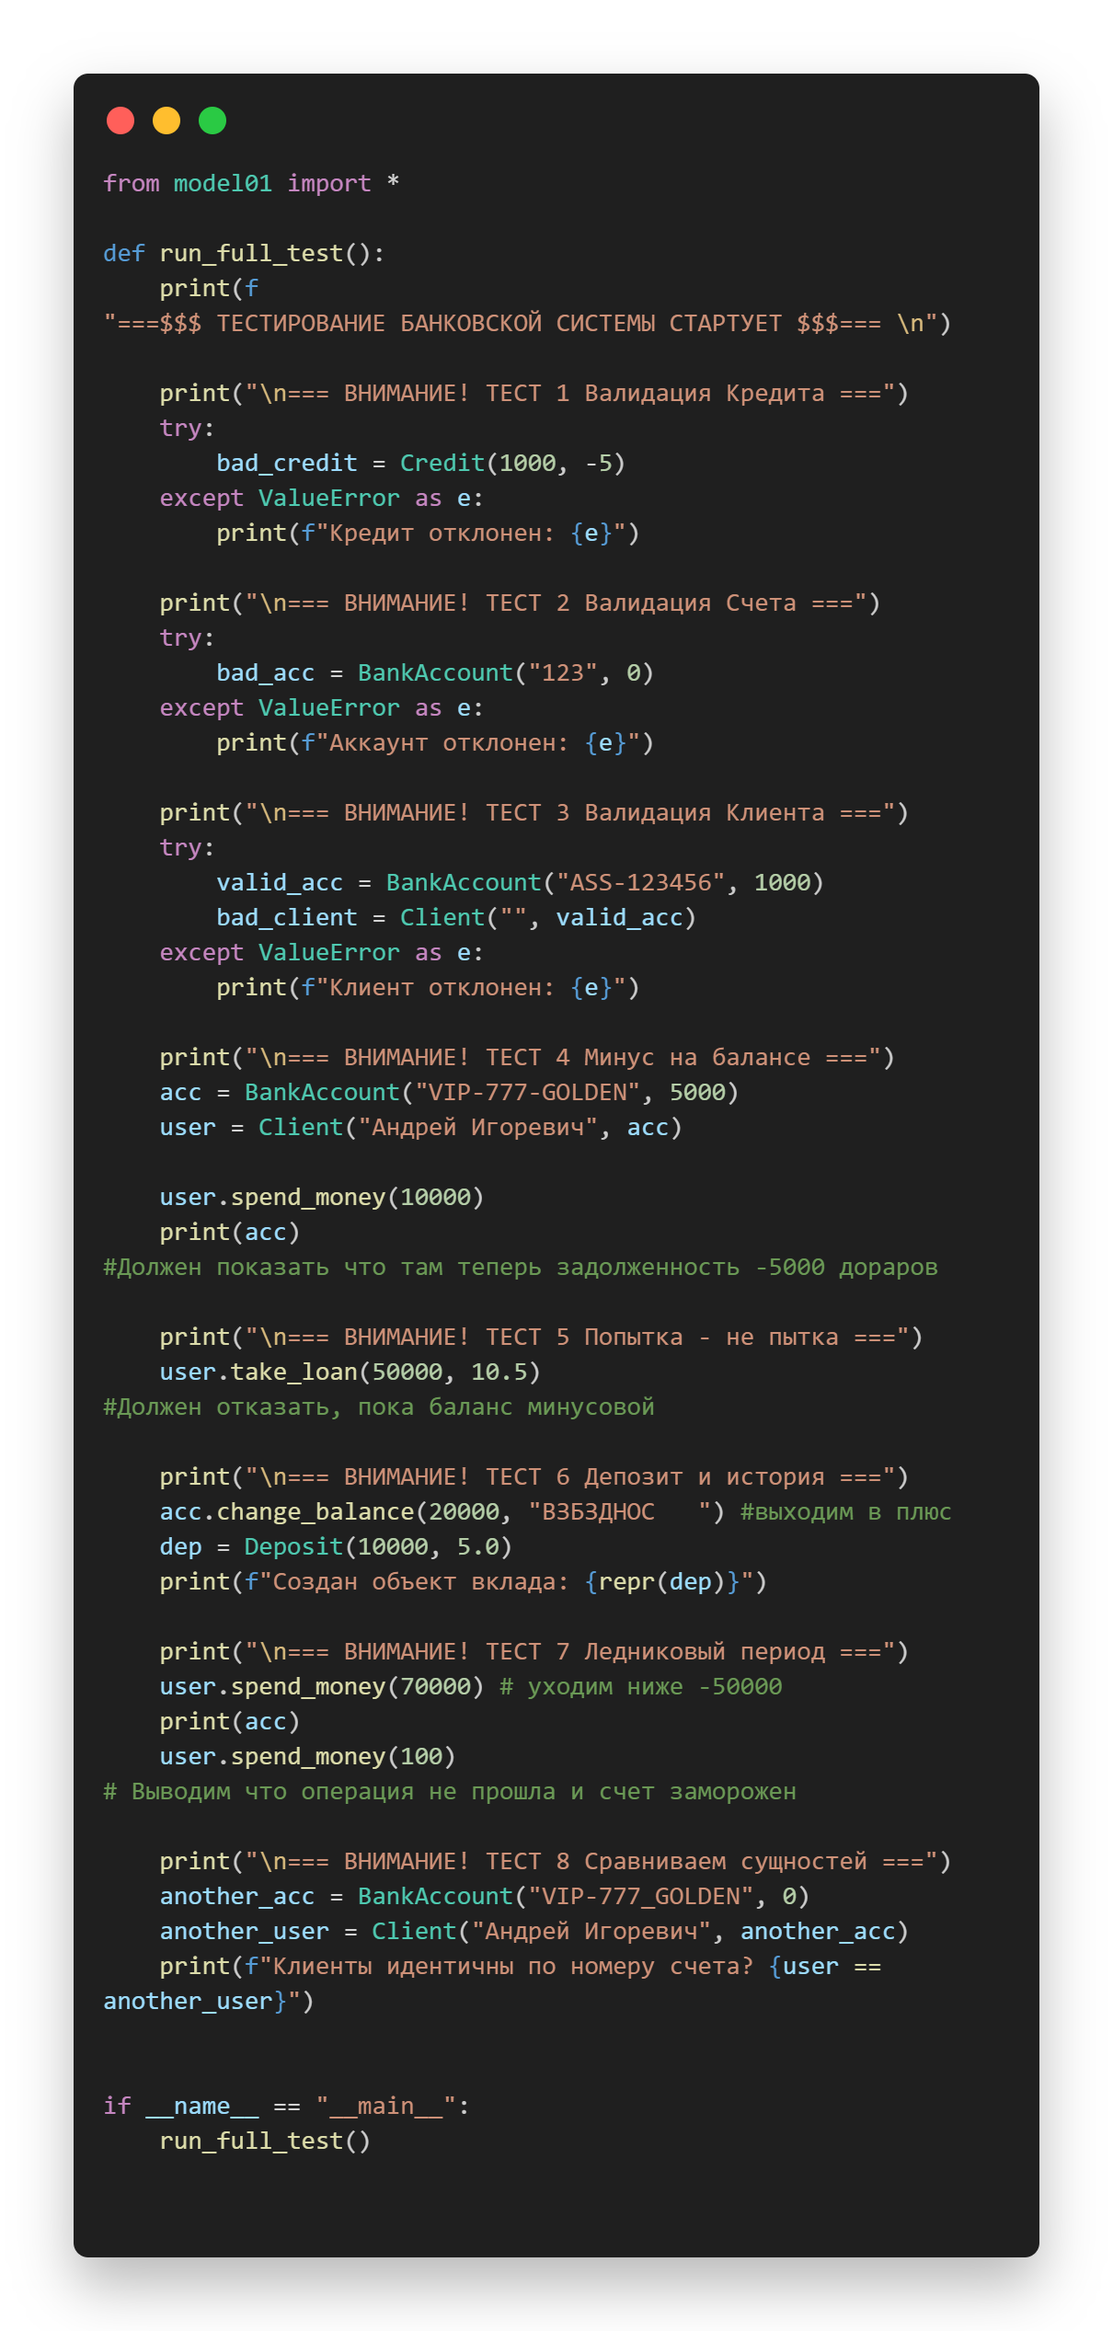
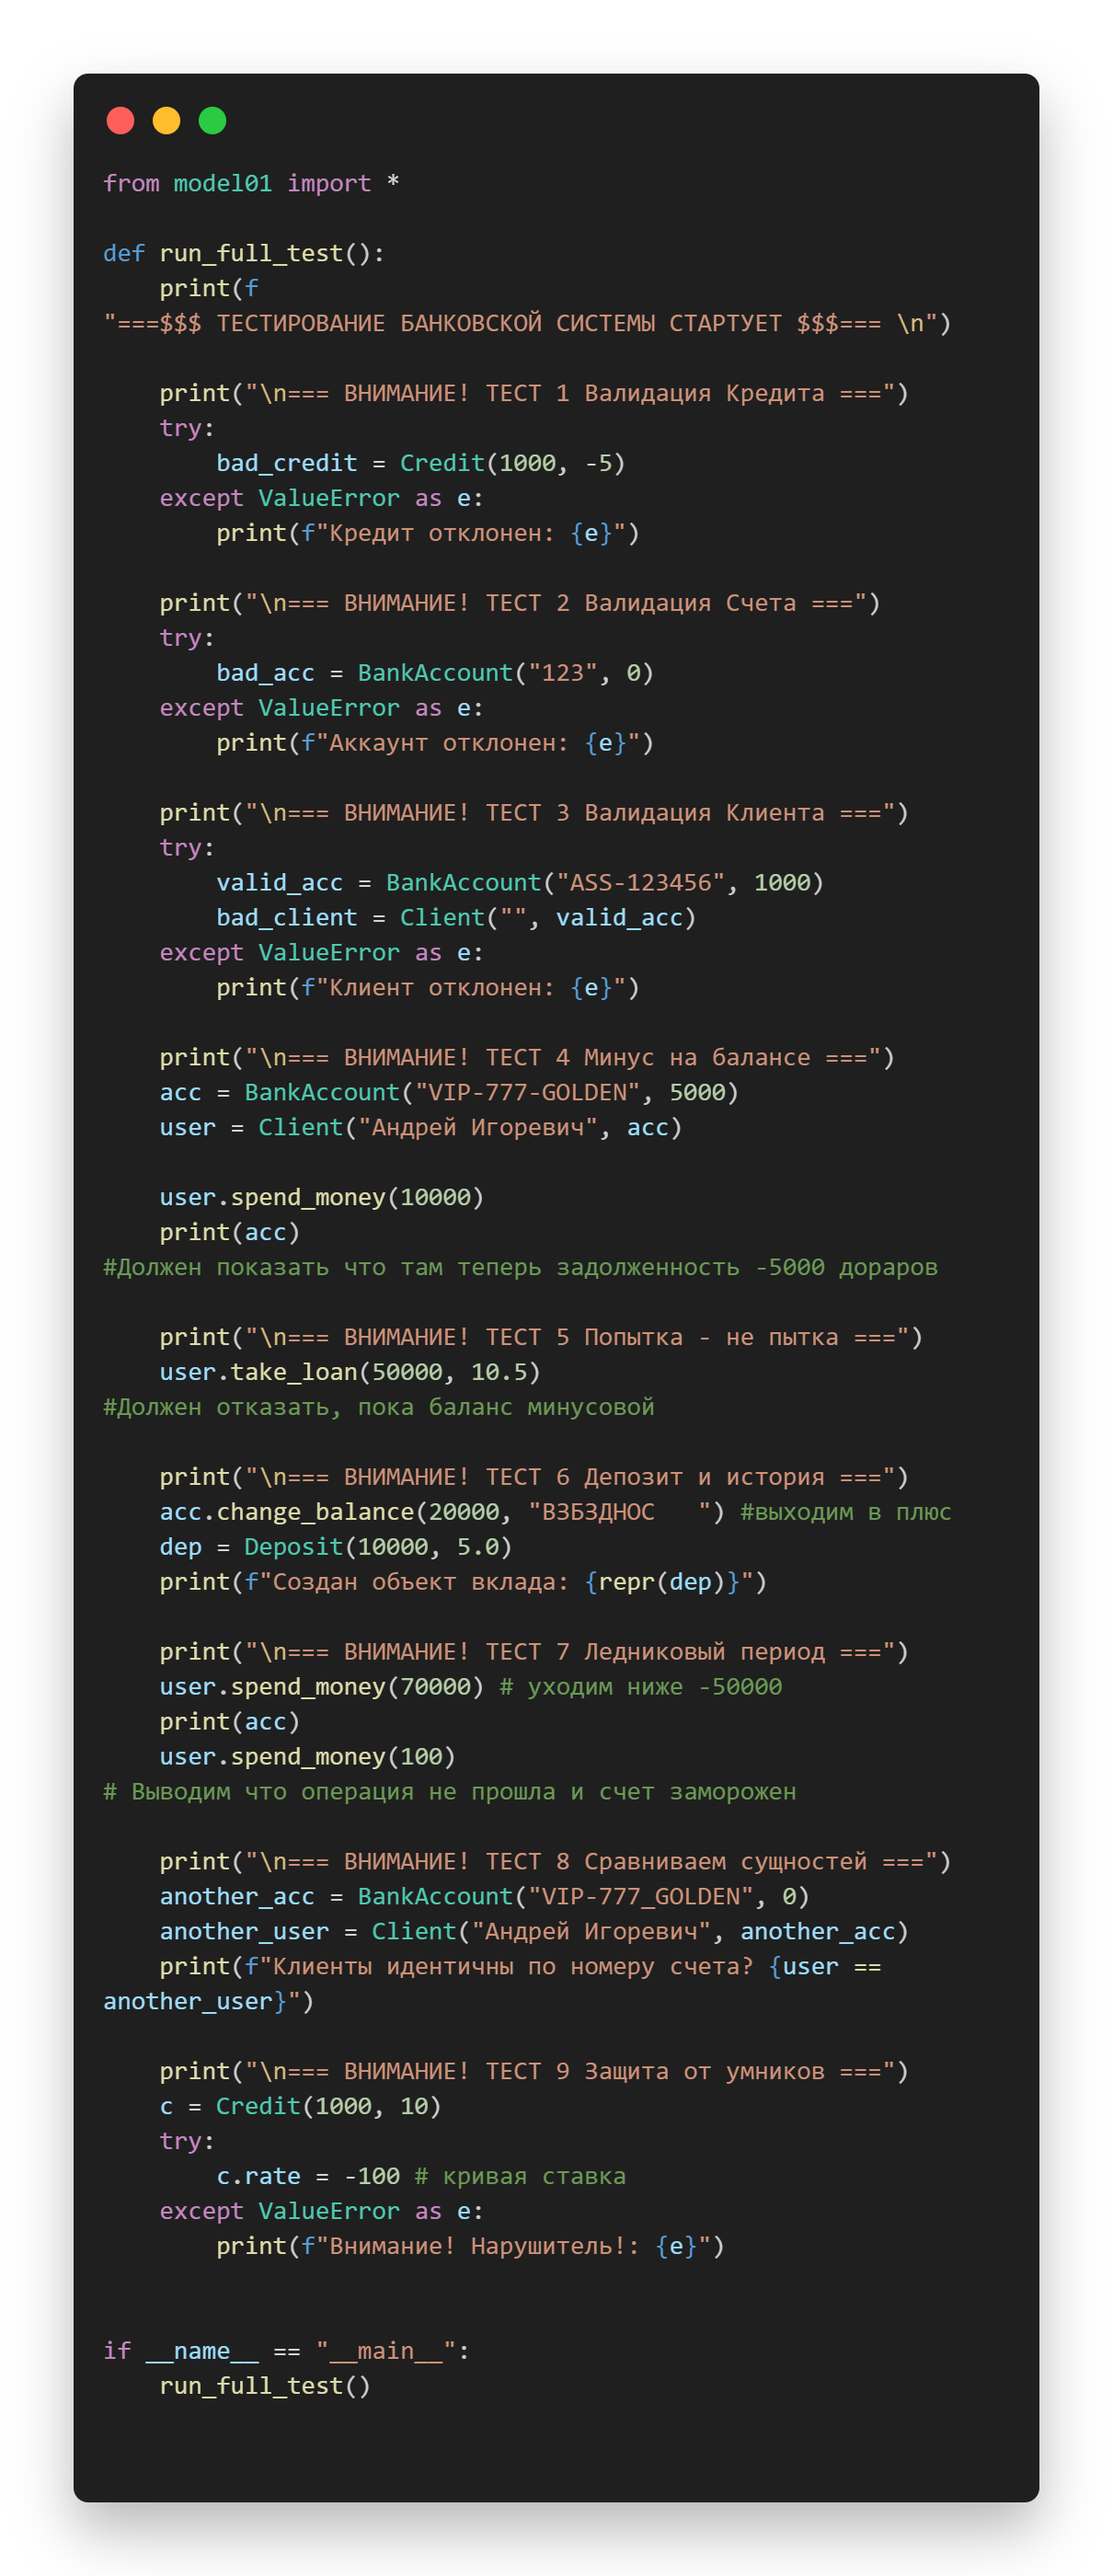
stakan

diff --git a/src/lab01/model01.py b/src/lab01/model01.py
@@ -12,13 +12,28 @@ class Transaction:
 class Credit:
     """Кредит"""
     def __init__(self, amount: float, rate: float):
-        self.__amount = self._validate(amount, "Сумма кредита")
-        self.__rate = self._validate(rate, "Ставка")
+        self.__amount = amount
+        self.__rate = rate
         self.__is_paid = False
 
     def _validate(self, val, name):
         if val <= 0: raise ValueError(f"{name} Должна быть > 0")
         return val
+    
+    @property
+    def amount(self):return self.__amount
+
+    @amount.setter
+    def amount(self, value):
+        self.__amount = self._validate(value, "Сумма кредита")
+
+    @property
+    def rate(self):
+        return self.__rate
+    
+    @rate.setter
+    def rate(self, value):
+        self.__rate = self._validate(value, "Ставка")
     
     def get_full_debt(self):
         return self.__amount * (1 + self.__rate / 100)

diff --git a/src/lab01/demo01.py b/src/lab01/demo01.py
@@ -47,6 +47,13 @@ def run_full_test():
     another_user = Client("Андрей Игоревич", another_acc)
     print(f"Клиенты идентичны по номеру счета? {user == another_user}")
 
+    print("\n=== ВНИМАНИЕ! ТЕСТ 9 Защита от умников ===")
+    c = Credit(1000, 10)
+    try:
+        c.rate = -100 # кривая ставка
+    except ValueError as e:
+        print(f"Внимание! Нарушитель!: {e}")
+
 
 if __name__ == "__main__":
     run_full_test()

diff --git a/readme.md b/readme.md
@@ -1,2 +1,4 @@
 # Лабораторная работа №1 выполнена! # 
 ![gif1](https://media1.giphy.com/media/v1.Y2lkPTc5MGI3NjExbHZkZTF4ajAyNno2cWFnZGc0M2F3MmV0MHBnZjZqcW82c3d6bmwyZyZlcD12MV9pbnRlcm5hbF9naWZfYnlfaWQmY3Q9Zw/3o6Ztm0VpFKWc5YSUE/giphy.gif)
+
+
